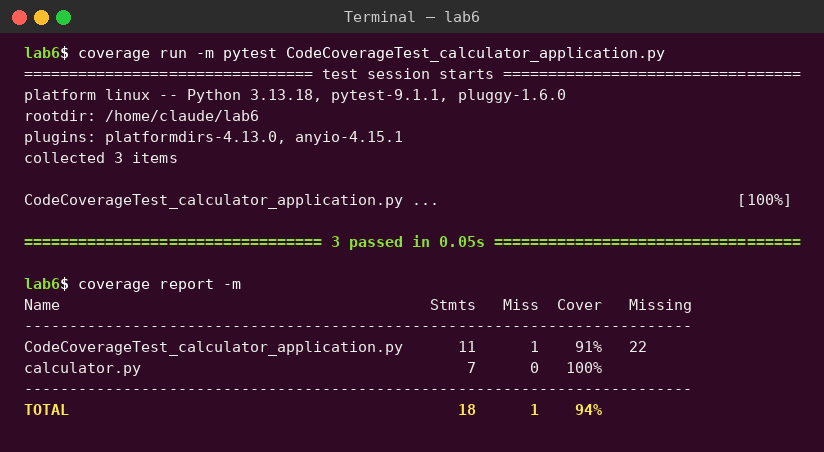
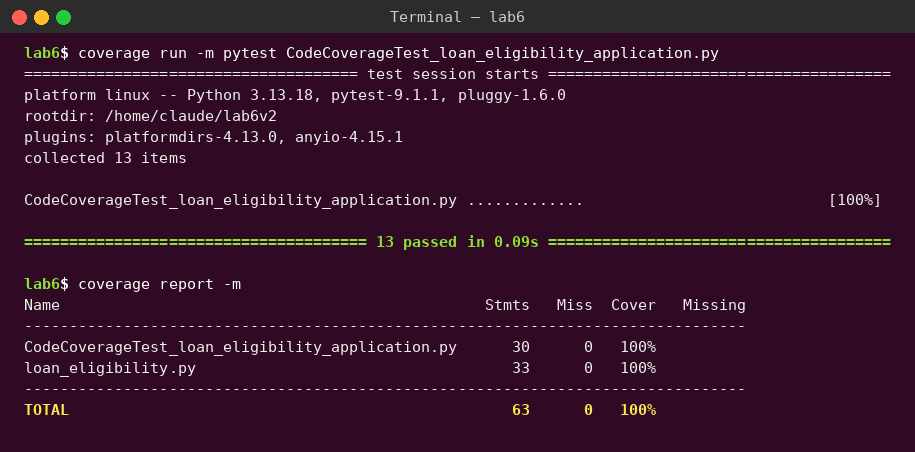
Lab 6: replace with assigned loan_eligibility app + code coverage tests (100% line)

diff --git a/Lab6/CodeCoverageTest_loan_eligibility_application.py b/Lab6/CodeCoverageTest_loan_eligibility_application.py
@@ -1,0 +1,60 @@
+import pytest
+from loan_eligibility import credit_band, is_eligible, interest_rate
+
+
+# ---------- credit_band: hit every return / raise statement ----------
+def test_credit_band_excellent():
+    assert credit_band(800) == "excellent"
+
+
+def test_credit_band_good():
+    assert credit_band(700) == "good"
+
+
+def test_credit_band_fair():
+    assert credit_band(600) == "fair"
+
+
+def test_credit_band_poor():
+    assert credit_band(400) == "poor"
+
+
+def test_credit_band_invalid_raises():
+    with pytest.raises(ValueError):
+        credit_band(1000)
+
+
+# ---------- is_eligible: hit every return / raise statement ----------
+def test_eligible_true():
+    assert is_eligible(30, 50000, "salaried", 800) is True
+
+
+def test_unknown_employment_raises():
+    with pytest.raises(ValueError):
+        is_eligible(30, 50000, "student", 800)
+
+
+def test_age_out_of_range():
+    assert is_eligible(18, 50000, "salaried", 800) is False
+
+
+def test_income_too_low():
+    assert is_eligible(30, 10000, "salaried", 800) is False
+
+
+def test_poor_credit_not_eligible():
+    assert is_eligible(30, 50000, "salaried", 400) is False
+
+
+# ---------- interest_rate: hit every assignment ----------
+def test_rate_excellent_salaried_no_collateral():
+    assert interest_rate(800, "salaried", False) == 8
+
+
+def test_rate_good_band():
+    assert interest_rate(700, "salaried", False) == 10
+
+
+def test_rate_fair_self_employed_with_collateral():
+    # 13 base + 1 self-employed - 2 collateral
+    assert interest_rate(600, "self_employed", True) == 12

diff --git a/Lab6/loan_eligibility.py b/Lab6/loan_eligibility.py
@@ -1,0 +1,40 @@
+MIN_INCOME = {"salaried": 25000, "self_employed": 40000}
+
+
+def credit_band(score):
+    if score < 300 or score > 900:
+        raise ValueError("invalid score")
+    if score >= 750:
+        return "excellent"
+    elif score >= 650:
+        return "good"
+    elif score >= 550:
+        return "fair"
+    return "poor"
+
+
+def is_eligible(age, income, employment, score):
+    if employment not in MIN_INCOME:
+        raise ValueError("unknown employment")
+    if age < 21 or age > 60:
+        return False
+    if income < MIN_INCOME[employment]:
+        return False
+    if credit_band(score) == "poor":
+        return False
+    return True
+
+
+def interest_rate(score, employment, has_collateral):
+    band = credit_band(score)
+    if band == "excellent":
+        rate = 8
+    elif band == "good":
+        rate = 10
+    else:
+        rate = 13
+    if employment == "self_employed":
+        rate += 1
+    if has_collateral:
+        rate -= 2
+    return rate

diff --git a/Lab6/test_loan_eligibility.py b/Lab6/test_loan_eligibility.py
@@ -1,0 +1,11 @@
+import pytest
+from loan_eligibility import credit_band, is_eligible, interest_rate
+
+#Example test cases:
+def test_excellent_band():
+    assert credit_band(800) == "excellent"
+
+def test_eligible():
+    assert is_eligible(30, 50000, "salaried", 800) is True
+
+#Write the rest of the test cases so that the code is 90- 100% covered.

diff --git a/Lab6/README.md b/Lab6/README.md
@@ -1,0 +1,16 @@
+# L6_L7_26_loan_eligibility — Loan Eligibility
+
+Lab 6: Code and Branch Coverage
+
+## About
+
+A small Python module that maps credit scores to bands, checks loan eligibility by age, income and employment and works out the interest rate.
+
+## Files
+
+| File | Description |
+|------|-------------|
+| `loan_eligibility.py` | The module under test |
+| `test_loan_eligibility.py` | Starter test file |
+
+Refer to the lab handout for instructions.
